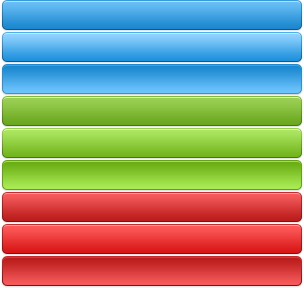
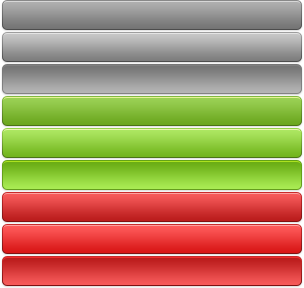
order menu styled for multiple order status scenarios

diff --git a/templates/menu/order.html b/templates/menu/order.html
@@ -7,35 +7,40 @@
 
 <div class="menu inner">
 
-    <h2>Breakfast</h2>
+    <h2>Breakfast <span class="expiration">is Over!</span></h2>
 
-    <div class="order">
+    <form method="post" class="order" action="{% url employee.views.editProfile %}">
+        {% csrf_token %}   
         <p>We do a lot of this behind the scenes stuff at YC, because we invest in such a large number of companies, and we invest so early that investors.</p>
-
-        <form method="post" class="order" action="{% url employee.views.editProfile %}">
-            {% csrf_token %}   
-            <p>
-                <label for="meals">Meal Choices <span class="errors">{% for error in order_form.meals.errors %} {{ error }} {% endfor %}</span></label>
-                <label class="radio" for="FIRST_MEAL"> 
-                    <input type="radio" id="FIRST_MEAL" name="meals" value="SOME VALUE" />
-                    <span class="value">Reading Fred's post made me go back and look at the emails I exchanged with him at the time, trying to convince him to invest in Airbnb. It was quite interesting to read.</span>
-                </label>    
-                <label class="radio" for="SECON_MEAL"> 
-                    <input type="radio" id="SECON_MEAL" name="meals" value="SOME VALUE" />
-                    <span class="value">Just some writing made me go back and look at the emails I exchanged with him at the time, trying to convince him to invest in Airbnb.</span>
-                </label>    
-            </p>
-            <p>
-                <label for="id_instructions">Special Instructions <span class="errors">{% for error in order_form.instructions.errors %} {{ error }} {% endfor %}</span></label>
-                <textarea></textarea>
-            </p>
-            <div class="buttons">
-                <button type="submit" name="" value="" class="green thinandtall">
-                    <div><span>Place Order</span></div>
-                </button>
-            </div>
-        </form>
-    </div>
+        <p>
+            <label for="meals">Meal Choices <span class="errors">{% for error in order_form.meals.errors %} {{ error }} {% endfor %}</span></label>
+            <label class="radio" for="FIRST_MEAL"> 
+                <input type="radio" id="FIRST_MEAL" name="meals" value="SOME VALUE" />
+                <span class="value">Reading Fred's post made me go back and look at the emails I exchanged with him at the time, trying to convince him to invest in Airbnb. It was quite interesting to read.</span>
+            </label>    
+            <label class="radio" for="SECON_MEAL"> 
+                <input type="radio" id="SECON_MEAL" name="meals" value="SOME VALUE" />
+                <span class="value">Just some writing made me go back and look at the emails I exchanged with him at the time, trying to convince him to invest in Airbnb.</span>
+            </label>    
+        </p>
+        <p>
+            <label for="id_timeslot">Timeslot <span class="errors">{% for error in order_form.timeslot.errors %} {{ error }} {% endfor %}</span></label>
+            <select name="id_timeslot">
+                <option value="SOME_VALUE">6:00 p.m. (5 slots left)</option>
+                <option value="SOME_VALUE">6:45 p.m. (18 slots left)</option>
+                <option value="SOME_VALUE">7:30 p.m. (20 slots left)</option>
+            </select>
+        </p>
+        <p>
+            <label for="id_instructions">Special Instructions <span class="errors">{% for error in order_form.instructions.errors %} {{ error }} {% endfor %}</span></label>
+            <textarea></textarea>
+        </p>
+        <div class="buttons">
+            <button type="submit" class="green thinandtall">
+                <div><span>Place Order</span></div>
+            </button>
+        </div>
+    </form>
 
 </div>
 
@@ -43,32 +48,34 @@
 
     <h2>Lunch</h2>
 
-    <div class="order">
+    <div class="ordered">
+        <h3>You ordered:</h3>
+        <p><em>"We do a lot of this behind the scenes stuff at YC, because we invest in such a large number of companies, and we invest so early that investors."</em></p>
+        <p><strong>Make sure you come back at 6:15 p.m. to confirm your order</strong>, or your meal won't be prepared. In the meantime, you can still cancel and reorder.</p>
+        <div class="buttons">
+            <button class="inactive thinandtall">
+                <div><span>Confirm Order (6:15 p.m.)</span></div>
+            </button>
+            <!--
+            When the order is confirmed, remove the 'cancel order' button, and show a greyed out 'confirmed!' button
+            Display this green 'Confirm Order' button when orders are allowed
 
-        <form method="post" class="order" action="{% url employee.views.editProfile %}">
-            {% csrf_token %}   
-            <p>
-                <label for="meals">Meal Choices <span class="errors">{% for error in order_form.meals.errors %} {{ error }} {% endfor %}</span></label>
-                <label class="radio" for="FIRST_MEAL"> 
-                    <input type="radio" id="FIRST_MEAL" name="meals" value="SOME VALUE" />
-                    <span class="value">Reading Fred's post made me go back and look at the emails I exchanged with him at the time, trying to convince him to invest in Airbnb. It was quite interesting to read.</span>
-                </label>    
-                <label class="radio" for="SECON_MEAL"> 
-                    <input type="radio" id="SECON_MEAL" name="meals" value="SOME VALUE" />
-                    <span class="value">Just some writing made me go back and look at the emails I exchanged with him at the time, trying to convince him to invest in Airbnb.</span>
-                </label>    
-            </p>
-            <p>
-                <label for="instructions">Special Instructions <span class="errors">{% for error in order_form.instructions.errors %} {{ error }} {% endfor %}</span></label>
-                <textarea></textarea>
-            </p>
-            <div class="buttons">
-                <button type="submit" name="" value="" class="green thinandtall">
-                    <div><span>Place Order</span></div>
-                </button>
-            </div>
-        </form>
+            <button class="green thinandtall" onclick="location.href='{% url menu.views.order %}'>
+                <div><span>Confirm Order</span></div>
+            </button>
+            -->
+            <button class="red thinandtall" onclick="location.href='{% url menu.views.order %}'">
+                <div><span>Cancel Order</span></div>
+            </button>
+        </div>
     </div>
+
+</div>
+
+<div class="menu inner">
+
+    <h2>Dinner</h2>
+    <p>A dinner menu has yet to be posted for today.</p>
 
 </div>
 

diff --git a/static/stylesheets/style.css b/static/stylesheets/style.css
@@ -1,6 +1,7 @@
 @import url(http://fonts.googleapis.com/css?family=Rokkitt);
 body { background:#eee; font:normal 0.625em/1.5em 'Helvetica Neue', Helvetica, Arial, sans-serif; }
 strong { font-weight:bold; }
+em { font-style:italic; }
 
 #container { background:#fff; margin:20px auto; border-radius:5px; -moz-border-radius:5px; -webkit-border-radius:5px; box-shadow:0 1px 3px rgba(0,0,0,0.1); -moz-box-shadow:0 1px 3px rgba(0,0,0,0.1); -webkit-box-shadow:0 1px 3px rgba(0,0,0,0.1); }
     #container.small { width:375px; }
@@ -14,15 +15,21 @@ strong { font-weight:bold; }
         #nav a { padding:14px; margin-top:-10px; margin-right:-12px; display:inline-block; font-size:1.3em; text-decoration:none; font-weight:bold; text-transform:uppercase; color:#aaa; }
         #nav a:hover { color:#6a8e80; }
 
-
 #content { }
     #content h2 { font:bold 1.6em/1.6em 'Trebuchet MS', Helvetica, 'Helvetica Neue', Arial; margin-bottom:10px; }
+    #content h3 { font:normal 1.4em/1.5em 'Trebuchet MS', Helvetica, 'Helvetica Neue', Arial; text-transform:uppercase; letter-spacing:1px; margin-bottom:6px; }
     #content p { font-size:1.3em; line-height:1.667em; margin-bottom:16px; color:#333; }
     .inner { padding:12px 20px; }
     .success { font-size:1.2em; color:rgba(0,0,0,0.6); padding:12px 20px; background:rgba(145, 200, 74, 0.2); display:none; }
 
 .menu { padding:12px 20px; border-bottom:2px dashed #eee; }
     .menu:last-child { border-bottom:none; }
+    .menu .expiration { display:none; }
+    .menu.expired form { opacity:0.6; }
+    .menu.expired .expiration { display:inline; }
+    .ordered { background:#eee; padding:8px 12px; border-radius:3px; -moz-border-radius:3px; -webkit-border-radius:3px; }
+    .ordered .buttons button div { background-color:#eee; }
+    .ordered .buttons button span { background-color:#eee; }
 
 form { }
     form p { display:inline-block; margin-bottom:10px !important; }
@@ -33,6 +40,7 @@ form { }
     input, textarea { border:1px solid #b3b3b3; padding:8px; font:normal 1.077em "Helvetica Neue", Helvetica, Arial, sans-serif; }
     input { width:319px; }
     textarea { width:400px; height:5em; }
+    select { width:319px; }
 
     label.radio { cursor:pointer; line-height:1.667em; color:#333; margin-bottom:6px; }
     label.radio:last-child { margin-bottom:0px; }
@@ -47,13 +55,18 @@ form { }
 .buttons.alignLeft {text-align: left;}
 .buttons button {cursor: pointer; margin-left:-2px; border: none; background: none; overflow: visible; padding: 0;}
 .buttons button div {display: block; float: left; height: 32px; padding: 0 16px 0 0; background: url(../images/form_button.png) top right no-repeat; font-size: 14px; white-space:nowrap;}
-.buttons button span {background: url(../images/form_button.png) top left no-repeat #FFF; font-size: 13px; display: block; padding: 0 0 0 17px; height: 32px; line-height: 29px; float: left; white-space:nowrap; clear:none; color: #FFF; text-shadow: 0px -1px 0px #2273a8;}
+.buttons button span {background: url(../images/form_button.png) top left no-repeat #fff; font-size: 13px; display: block; padding: 0 0 0 17px; height: 32px; line-height: 29px; float: left; white-space:nowrap; clear:none; color: #FFF; text-shadow: 0px -1px 0px rgba(0,0,0,0.5);}
 .buttons button:hover div {background-position: right -32px;}
 .buttons button:hover span {background-position: 0 -32px; color: #FFF;}
 .buttons button:active, .buttons button:focus {outline: none;}
 .buttons button:active div {background-position: right -64px;}
 .buttons button:active span {background-position: 0 -64px; color: #FFF;}
-.buttons button.inactive {opacity: .3; filter: alpha(opacity = .3);}
+
+.buttons button.inactive div {cursor: default;}
+.buttons button.inactive:hover div {background-position:top right;}
+.buttons button.inactive:hover span {background-position:top left;}
+.buttons button.inactive:active div {background-position:top right;}
+.buttons button.inactive:active span {background-position:top left;}
 
 .buttons button.green div {background-position: right -96px;}
 .buttons button.green span {background-position: left -96px; text-shadow: 0px -1px 0px #56831c;}
@@ -61,4 +74,12 @@ form { }
 .buttons button.green:hover span {background-position: left -128px;}
 .buttons button.green:active div {background-position: right -160px;}
 .buttons button.green:active span {background-position: left -160px;}
+
+.buttons button.red div {background-position: right -192px;}
+.buttons button.red span {background-position: left -192px; text-shadow: 0px -1px 0px #9c1717;}
+.buttons button.red:hover div {background-position: right -224px;}
+.buttons button.red:hover span {background-position: left -224px;}
+.buttons button.red:active div {background-position: right -256px;}
+.buttons button.red:active span {background-position: left -256px;}
+
 

diff --git a/static/javascripts/main.js b/static/javascripts/main.js
@@ -1,1 +1,5 @@
 $('.message').slideDown(500).delay(2500).slideUp(800);
+
+$('input, textarea, select', '.expired').attr('disabled', 'disabled');
+$('.buttons button', '.expired').attr('class', 'inactive thinandtall');
+
